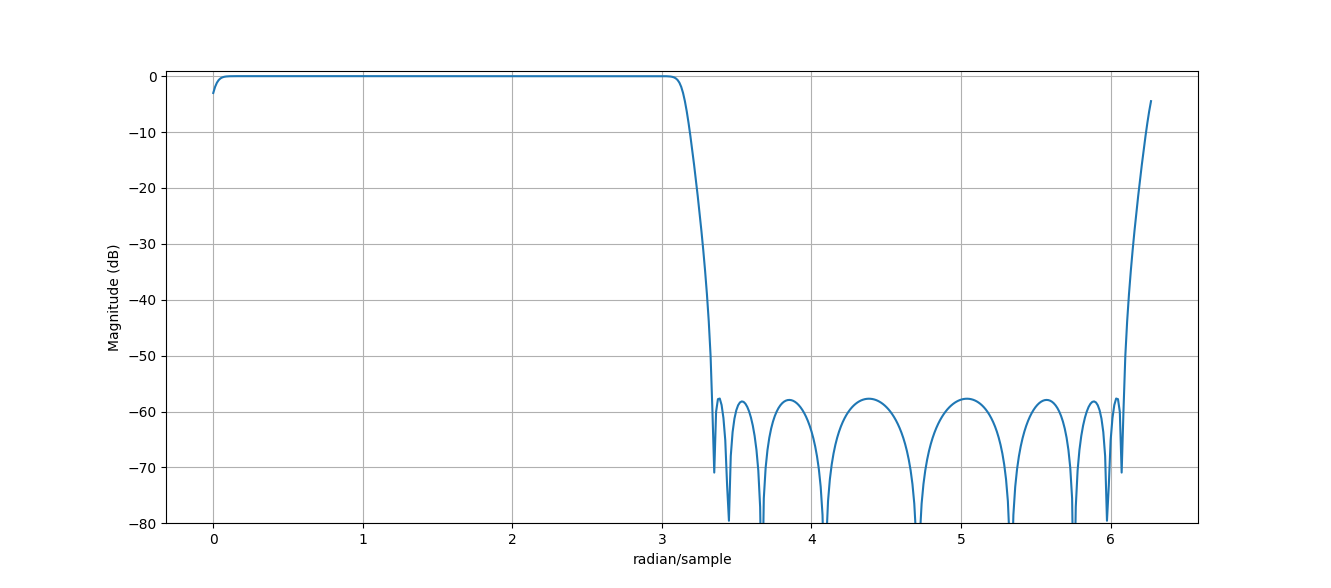
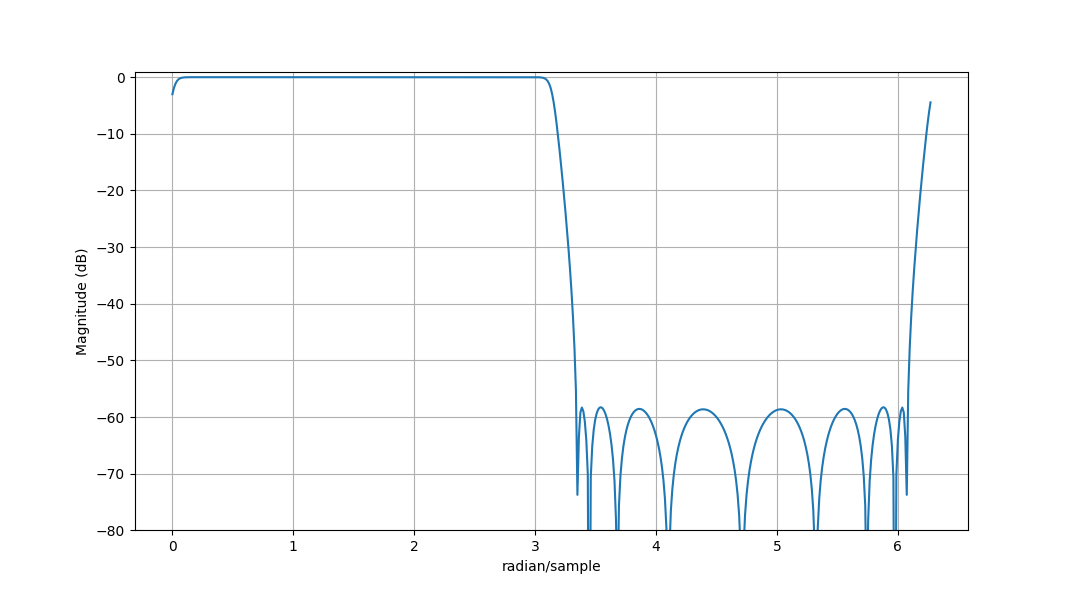
Switch from ScipPy's 'least_squares' to general 'minimize'

diff --git a/allpass_halfband_des.py b/allpass_halfband_des.py
@@ -22,16 +22,19 @@ def H(x, z):
     return np.abs(H0 + H1) / 2
 
 
-def residuals(ws, ds, x):
-    ret = []
+def H_mag(ws, ds, l1, x):
+    res = []
     fun = H
 
     for w, d in zip(ws, ds):
         z = np.exp(1j * w)
         mag = fun(x, z)
-        ret.append(d - mag)
+        res.append(d - mag)
 
-    return np.array(ret)
+    if l1:
+        return np.sum(np.abs(res))
+    else:
+        return np.sum(np.square(res))
 
 
 def des_mag_response(w0, tw, w_step=0.01, As=180, restrict_transition=False):
@@ -95,15 +98,15 @@ w0 = np.pi * (1.0 / 2.0)
 tw = w0 / (2 * SECTIONS)
 ws, ds = des_mag_response(w0, tw, 0.01, 60, restrict_transition=False)
 
-res = partial(residuals, ws, ds)
+res = partial(H_mag, ws, ds, True)
 results = []
 for i in range(10):
     x0 = np.random.uniform(0, 0.99, SECTIONS * 2)
-    res_1 = optimize.least_squares(res, x0, bounds=(0, 0.99), loss="soft_l1")
+    res_1 = optimize.minimize(res, x0, bounds=[(0, 0.99)] * (SECTIONS * 2))
     # print(f"{res_1.success}")
-    # print(f"Cost: {res_1.cost}")
+    # print(f"Cost: {res_1.fun}")
     if res_1.success:
-        results.append((res_1.cost, res_1.x))
+        results.append((res_1.fun, res_1.x))
 
 results = sorted(results, key=lambda x: x[0])
 print(f"Lowest cost: {results[0][0]}")

diff --git a/des_hilb_allpass.py b/des_hilb_allpass.py
@@ -15,7 +15,7 @@ def tfmul(a, b):
 
 
 # taps of a two-branch, two-section, lowpass half-band filter
-alphas = [6.27978583e-01, 3.56629192e-01, 1.07224663e-01, 8.74907424e-01]
+alphas = [1.05128707e-01, 8.72751431e-01, 6.23161614e-01, 3.51738099e-01]
 alphas = np.array(alphas)
 
 b0 = []
